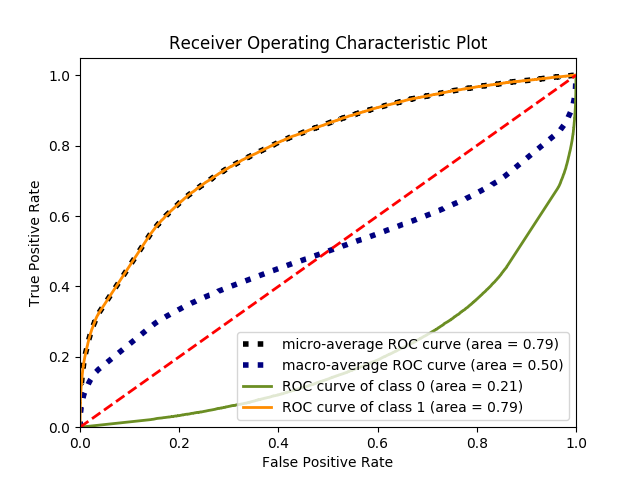
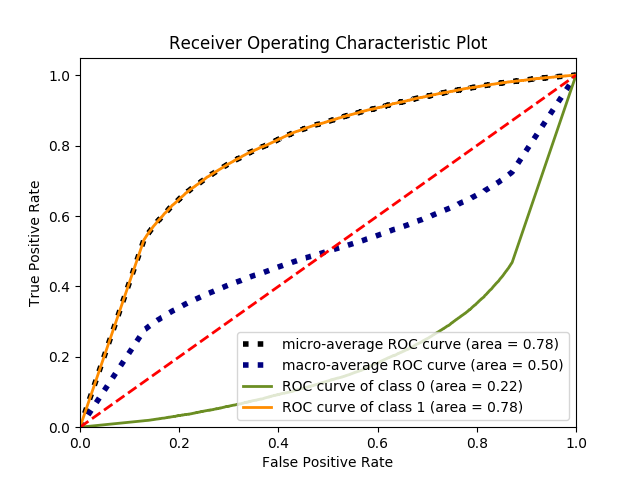
Retest with different hidden layer layout

diff --git a/Python_Files/predict_model.py b/Python_Files/predict_model.py
@@ -117,26 +117,26 @@ def bagClassify(path):
     X_train, X_test, Y_train, Y_test = train_test_split(scaledTrainX, Y, test_size=0.33, random_state=19)
     print("Training Data is distributed as follows: " + str(sorted(Counter(Y_train).items())))
     print("Testing Data is distributed as follows: " + str(sorted(Counter(Y_test).items())))
-    # std = MLPClassifier(hidden_layer_sizes=(windowSize*21,2),max_iter=500, solver='adam',random_state=19)
-    # # svc = SVC(class_weight='balanced',random_state=19,decision_function_shape='ovr')
-    # bag = BalancedBaggingClassifier(n_estimators=200,random_state=19)
-    #
-    # bbc = BalancedBaggingClassifier(base_estimator=MLPClassifier(hidden_layer_sizes=(windowSize*21,2),max_iter=500),ratio='auto',replacement=False,random_state=19)
-    # bbc.fit(X_train,Y_train)
+    std = MLPClassifier(hidden_layer_sizes=(windowSize*21,2),max_iter=500, solver='adam',random_state=19)
+    # svc = SVC(class_weight='balanced',random_state=19,decision_function_shape='ovr')
+    bag = BalancedBaggingClassifier(n_estimators=200,random_state=19)
+
+    bbc = BalancedBaggingClassifier(base_estimator=MLPClassifier(hidden_layer_sizes=(windowSize*21,2),max_iter=500),ratio='auto',replacement=False,random_state=19)
+    bbc.fit(X_train,Y_train)
     # svc.fit(X_train,Y_train)
-    # bag.fit(X_train,Y_train)
-    # std.fit(X_train,Y_train)
-    bbc = joblib.load('bag_model.pkl')
-    bag = joblib.load('bag.pkl')
-    std = joblib.load('std.pkl')
-    scaler  = joblib.load('bag_scaler.pkl')
+    bag.fit(X_train,Y_train)
+    std.fit(X_train,Y_train)
+    # bbc = joblib.load('bag_model.pkl')
+    # bag = joblib.load('bag.pkl')
+    # std = joblib.load('std.pkl')
+    # scaler  = joblib.load('bag_scaler.pkl')
     print("Fitted Model !\n" +  "Now saving model and scaler")
 
-    # joblib.dump(bbc, 'bag_model.pkl')
+    joblib.dump(bbc, 'bag_model.pkl')
     # # joblib.dump(svc, 'svc.pkl')
-    # joblib.dump(bag,'bag.pkl')
-    # joblib.dump(std,'std.pkl')
-    # joblib.dump(scaler, 'bag_scaler.pkl')
+    joblib.dump(bag,'bag.pkl')
+    joblib.dump(std,'std.pkl')
+    joblib.dump(scaler, 'bag_scaler.pkl')
     # predY1 = svc.predict(X_test)
 
     predY1 = bbc.predict(X_test)
